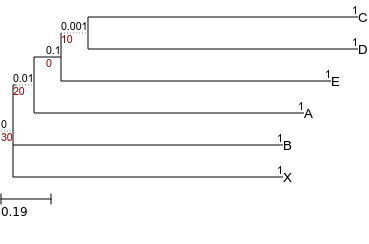
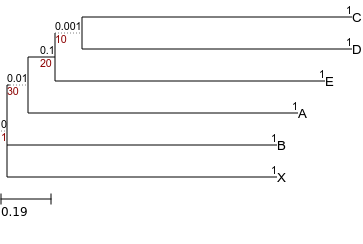
correct patched ape test

diff --git a/TEST_RESULTS.md b/TEST_RESULTS.md
@@ -114,7 +114,7 @@ R --quiet --vanilla < test_ape.R |grep "\[1\]"|cut -f2 -d " "|cut -f2 -d '"'
 R --quiet --vanilla < test_patched_ape.R |grep "\[1\]"|cut -f2 -d " "|cut -f2 -d '"' 
 ```
 ```
-((((C:1,D:1)10:0.001,E:1)0:0.1,A:1)20:0.01,B:1,X:1)30;
+((((C:1,D:1)10:0.001,E:1)20:0.1,A:1)30:0.01,B:1,X:1);
 
 ```
 ![test_patched_ape.sh](https://github.com/jhcepas/test_branch_support_after_tree_rerooting/blob/master/test_patched_ape.sh.png)
